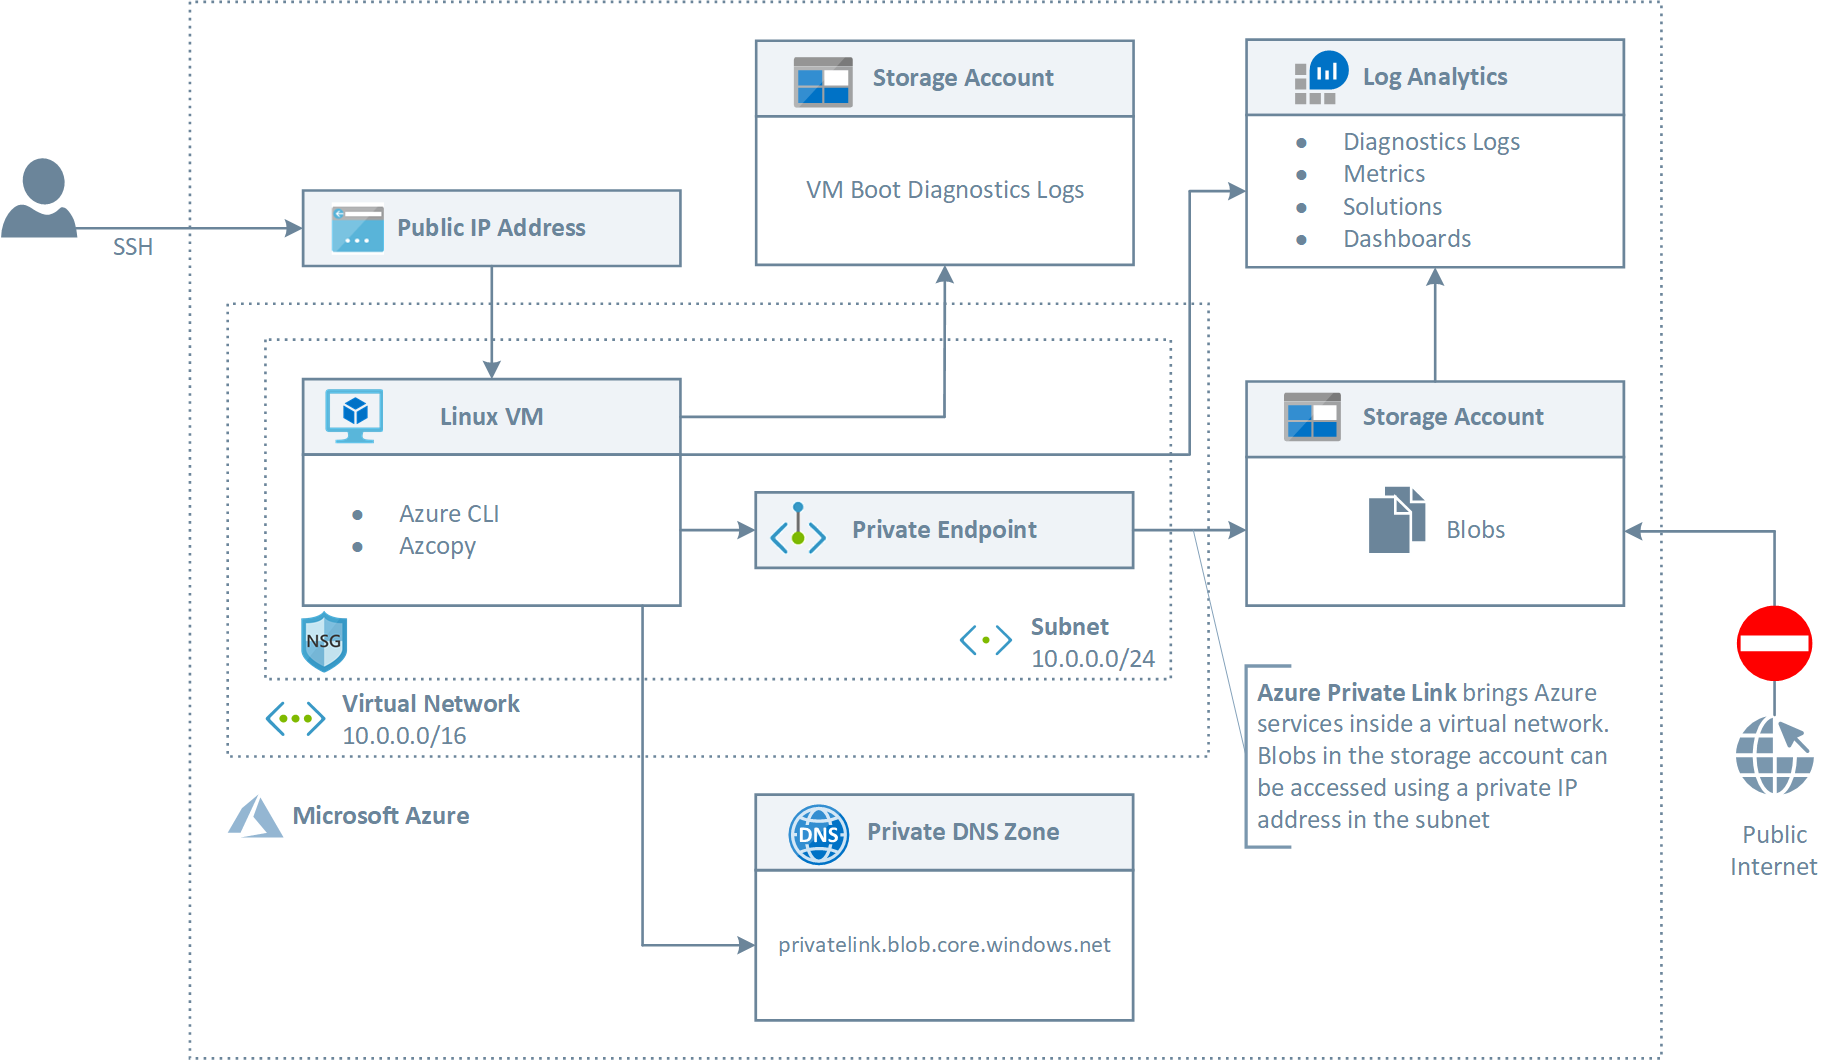
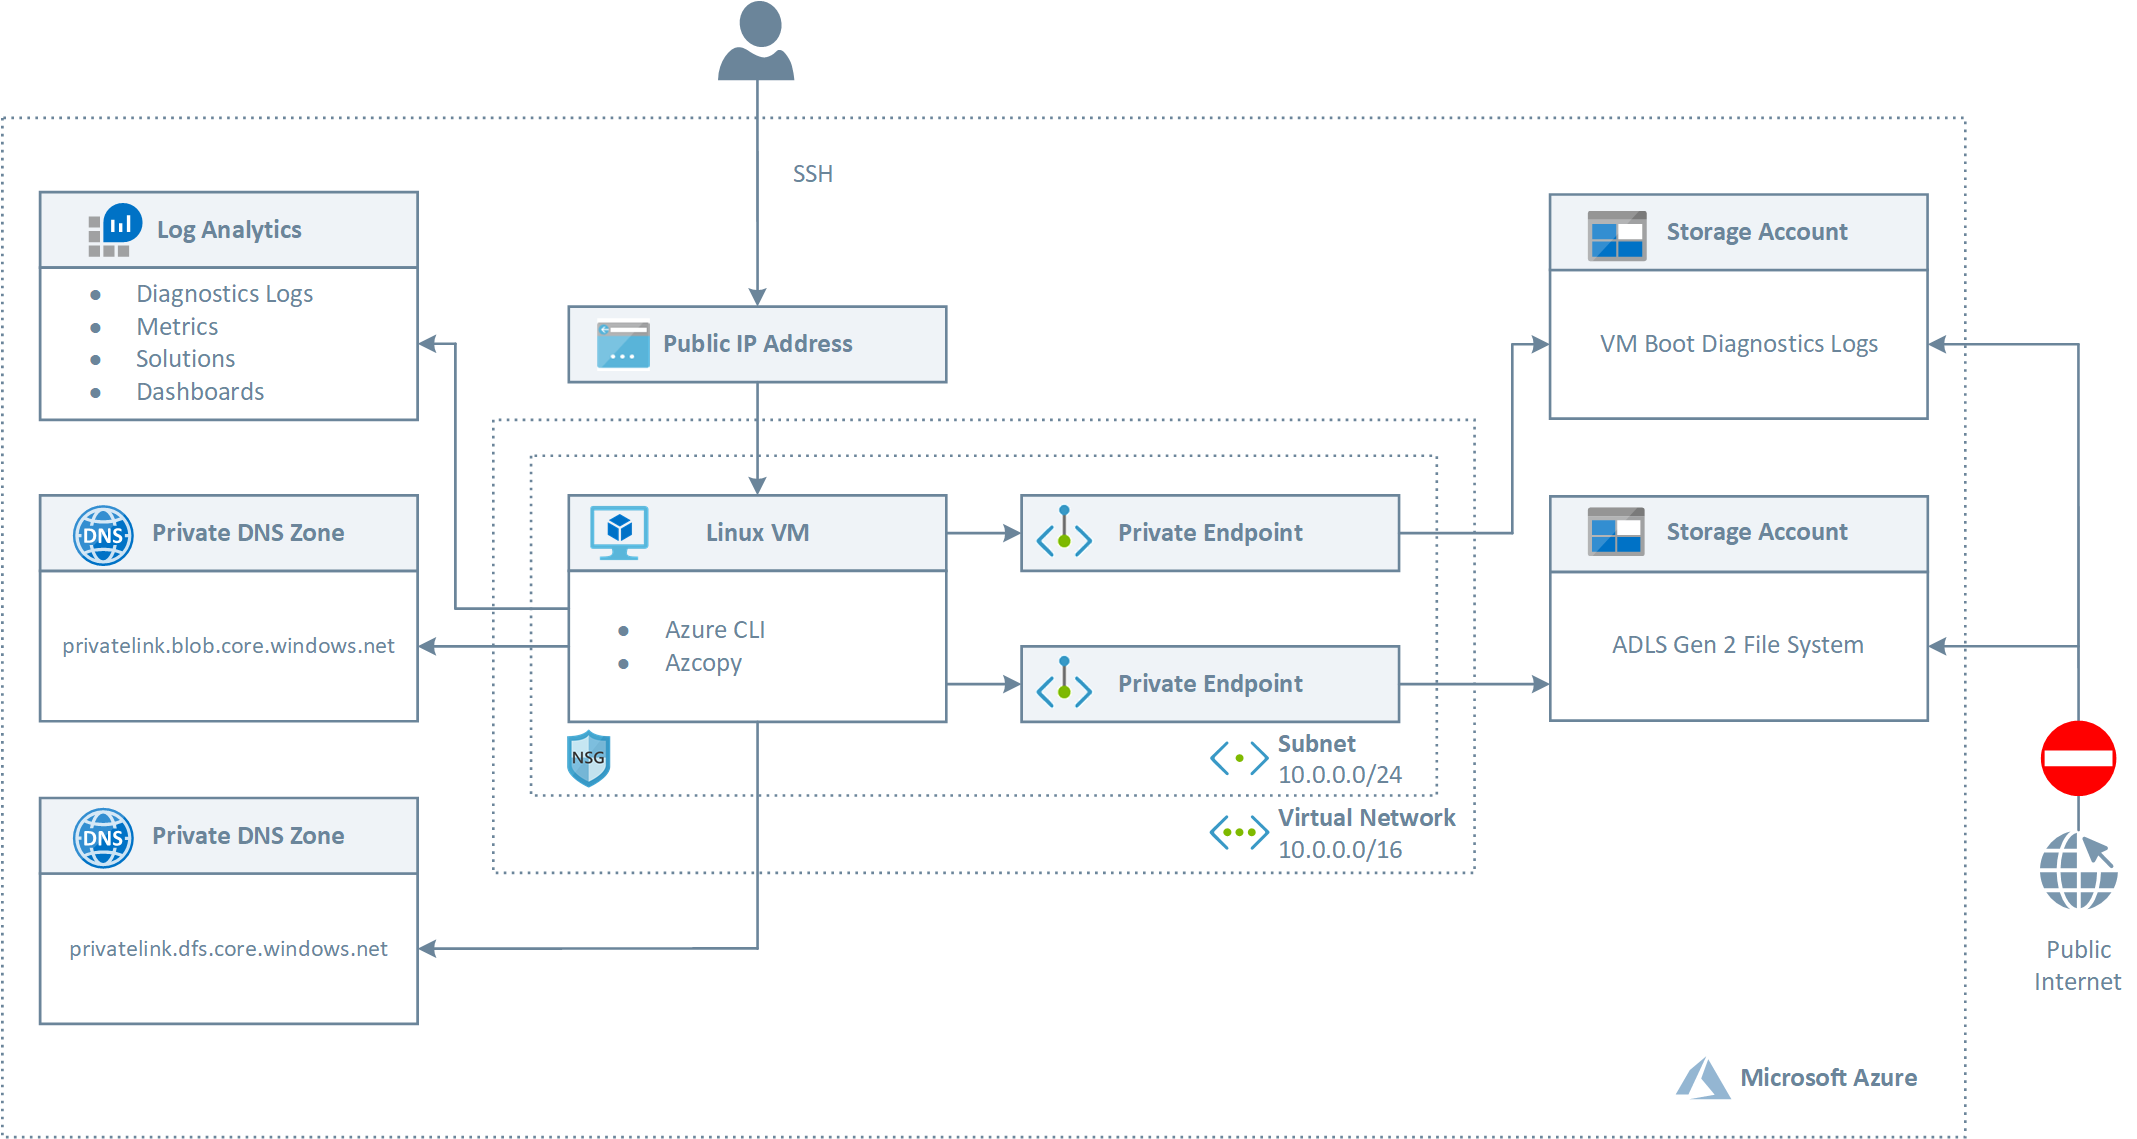
Updated templates

diff --git a/201-blob-storage-private-endpoint/README.md b/201-blob-storage-private-endpoint/README.md
@@ -23,28 +23,62 @@ The following picture shows the architecture and network topology of the sample.
 
 The ARM template deploys the following resources:
 
-- Virtual Network: this virtual network has a single subnet that hosts a Linux (Ubuntu) virtual machine
-- Network Security Group: this resource contains an inbound rule to allow access to the virtual machine on port 22 (SSH)
+- Virtual Network: this virtual network has a single subnet that hosts an Linux (Ubuntu) virtual machine
+- Network Security Group: this resource contains an inbound rule to allow the access to the virtual machine on port 22 (SSH)
 - The virtual machine is created with a managed identity which is assigned the contributor role at the resource group scope level
 - A Public IP for the Linux virtual machine
 - The NIC used by the Linux virtual machine that makes use of the Public IP
 - A Linux virtual machine used for testing the connectivity to the storage account via a private endpoint
 - A Log Analytics workspace used to monitor the health status of the Linux VM
-- An Azure Data Lake Storage (ADLS) Gen2 storage account
+- An Azure Data Lake Storage (ADLS) Gen 2 storage account
 - A Private DNS Zone for a blob storage resource
 - A Private Endpoint for the blob storage account
 
-The ARM template uses an[Azure Custom Script Extension](https://docs.microsoft.com/en-us/azure/virtual-machines/extensions/custom-script-linux) to download and run the following Bash script. The script runs the nslookup command against the public URL of the storage account to verify that this gets resolved to a private address.
+The ARM template uses the [Azure Custom Script Extension](https://docs.microsoft.com/en-us/azure/virtual-machines/extensions/custom-script-linux) to download and run the following Bash script on the virtual machine. The script performs the following steps:
+
+- Validates the parameters received by the Custom Script extension
+- Update the system and upgrade packages
+- Installs curl and traceroute packages
+- Runs the nslookup command against the public URL of the storage account to verify that this gets resolved to a private address
+- Downloads and installs the Azure CLI
+- Logins using the system-assigned managed identity of the virtual machine
+- Creates a file system in the ADLS Gen 2 storage account
+- Creates a directory in the file system
+- Creates a file in the directory with the content passed as a parameter
 
 ```bash
 #!/bin/bash
 
 # Variables
-blobServicePrimaryEndpoint=$1
+storageAccountName=$1
+fileSystemName=$2
+directoryName=$3
+fileName=$4
+fileContent=$5
 
 # Parameter validation
-if [[ -z $blobServicePrimaryEndpoint ]]; then
-    echo "blobServicePrimaryEndpoint parameter cannot be null or empty"
+if [[ -z storageAccountName ]]; then
+    echo "storageAccountName parameter cannot be null or empty"
+    exit 1
+fi
+
+if [[ -z fileSystemName ]]; then
+    echo "fileSystemName parameter cannot be null or empty"
+    exit 1
+fi
+
+if [[ -z directoryName ]]; then
+    echo "directoryName parameter cannot be null or empty"
+    exit 1
+fi
+
+if [[ -z fileName ]]; then
+    echo "fileName parameter cannot be null or empty"
+    exit 1
+fi
+
+if [[ -z fileContent ]]; then
+    echo "fileContent parameter cannot be null or empty"
     exit 1
 fi
 
@@ -54,10 +88,46 @@ sudo apt-get update -y
 # Upgrade packages
 sudo apt-get upgrade -y
 
+# Install curl and traceroute
+sudo apt install -y curl traceroute
+
+# Install Azure CLI
+curl -sL https://aka.ms/InstallAzureCLIDeb | sudo bash
+
 # Run nslookup to verify that the <storage-account>.blob.core.windows.net public hostname of the storage account 
 # is properly mapped to <storage-account>.privatelink.blob.core.windows.net by the private DNS zone
 # and the latter mapped to the private address by the A record
-nslookup $blobServicePrimaryEndpoint
+nslookup "$storageAccountName.blob.core.windows.net"
+
+# Login using the virtual machine system-assigned managed identity
+az login --identity
+
+# Create file system for the Azure Data Lake Storage Gen2 account
+az storage fs create \
+    --name $fileSystemName \
+    --account-name $storageAccountName
+
+# Create a directory in the ADLS Gen2 file system
+az storage fs directory create \
+    --file-system $fileSystemName \
+    --name $directoryName \
+    --account-name $storageAccountName
+
+# Create a file to upload to the ADLS Gen2 file system in the storage account
+echo $fileContent > $fileName
+
+# Upload the file to a file path in ADLS Gen2 file system.
+az storage fs file upload \
+    --file-system $fileSystemName \
+    --path "$directoryName/$fileName" \
+    --source "./$fileName" \
+    --account-name $storageAccountName
+
+# List files and directories in the directory in the ADLS Gen2 file system.
+az storage fs file list \
+    --file-system $fileSystemName \
+    --path $directoryName \
+    --account-name $storageAccountName
 ```
 
 ## Deployment ##
